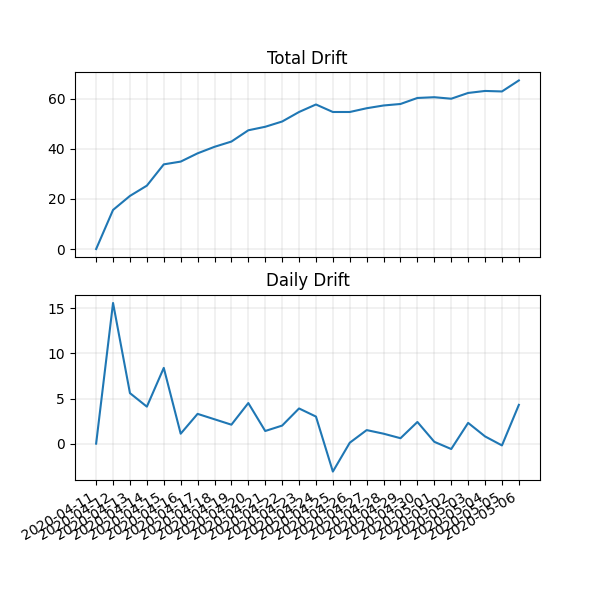
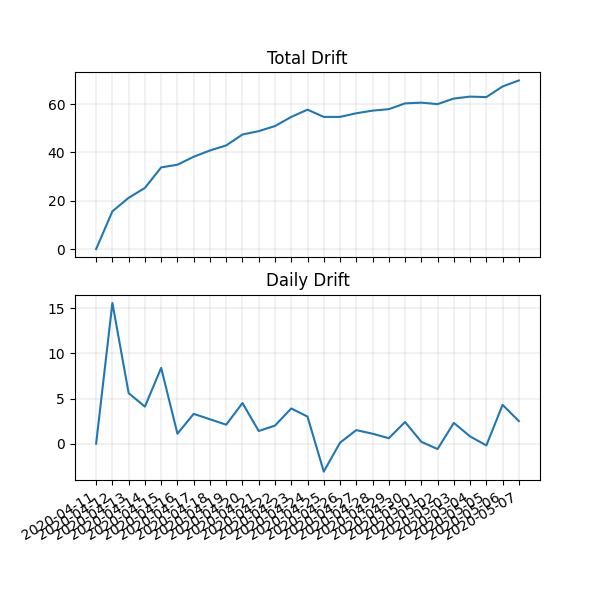
Thu May  7 15:30:15 EDT 2020

diff --git a/README.md b/README.md
@@ -1,10 +1,11 @@
 # MMR Drift Status
 
-**Last Updated (UTC):** 2020-05-06 21:15:13.886332
+**Last Updated (UTC):** 2020-05-07 19:30:14.862066
 ![Figure 1](/images/fig1.png)
 ![Figure 2](/images/fig2.png)
 |date| min| max| mean| drift_daily| drift_total| median| stdev|
 |:---|:---|:---|:---|:---|:---|:---|:--- |
+|2020-05-07| 3025| 3244| 3064.4| 2.5| 69.8| 3053.0| 37.0|
 |2020-05-06| 3021| 3244| 3061.9| 4.3| 67.3| 3050.0| 37.5|
 |2020-05-05| 2875| 3244| 3057.5| -0.2| 62.9| 3050.0| 45.6|
 |2020-05-04| 3015| 3244| 3057.7| 0.8| 63.1| 3047.0| 38.5|
